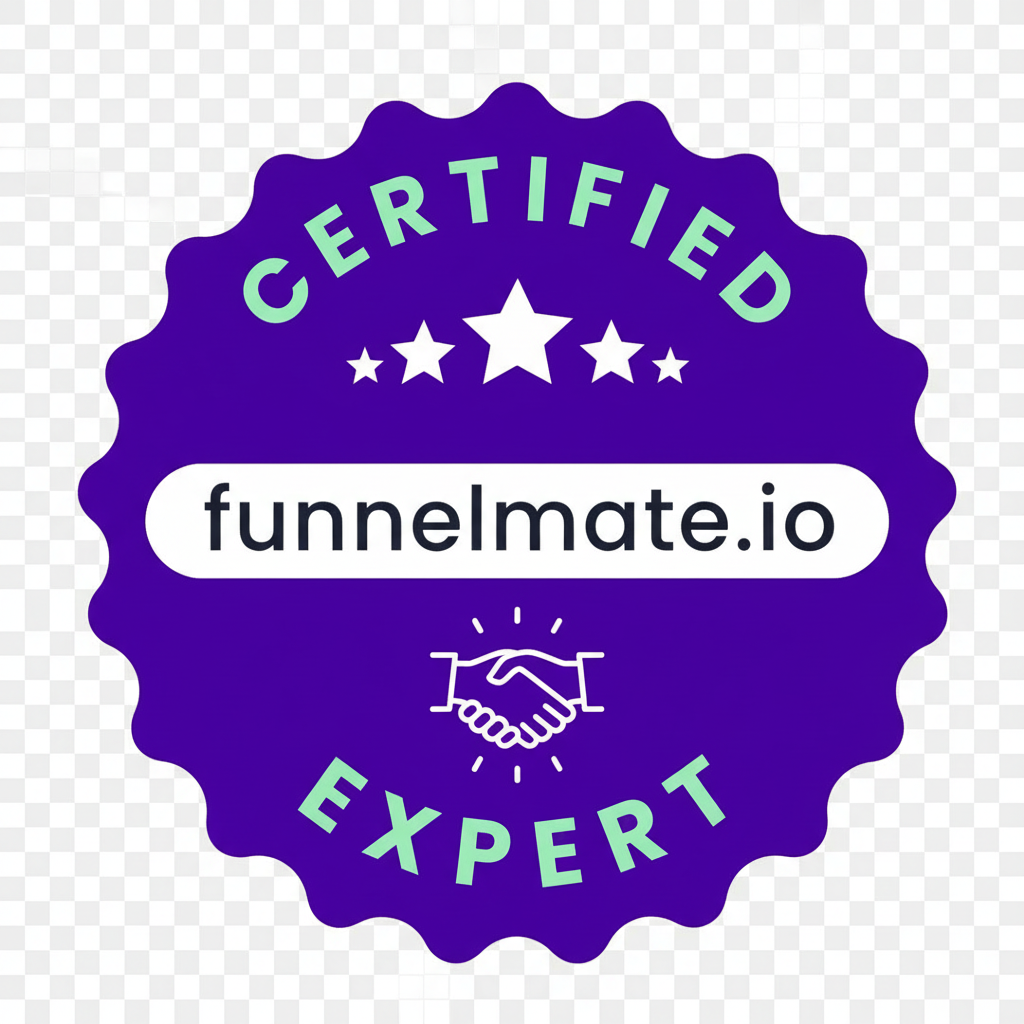
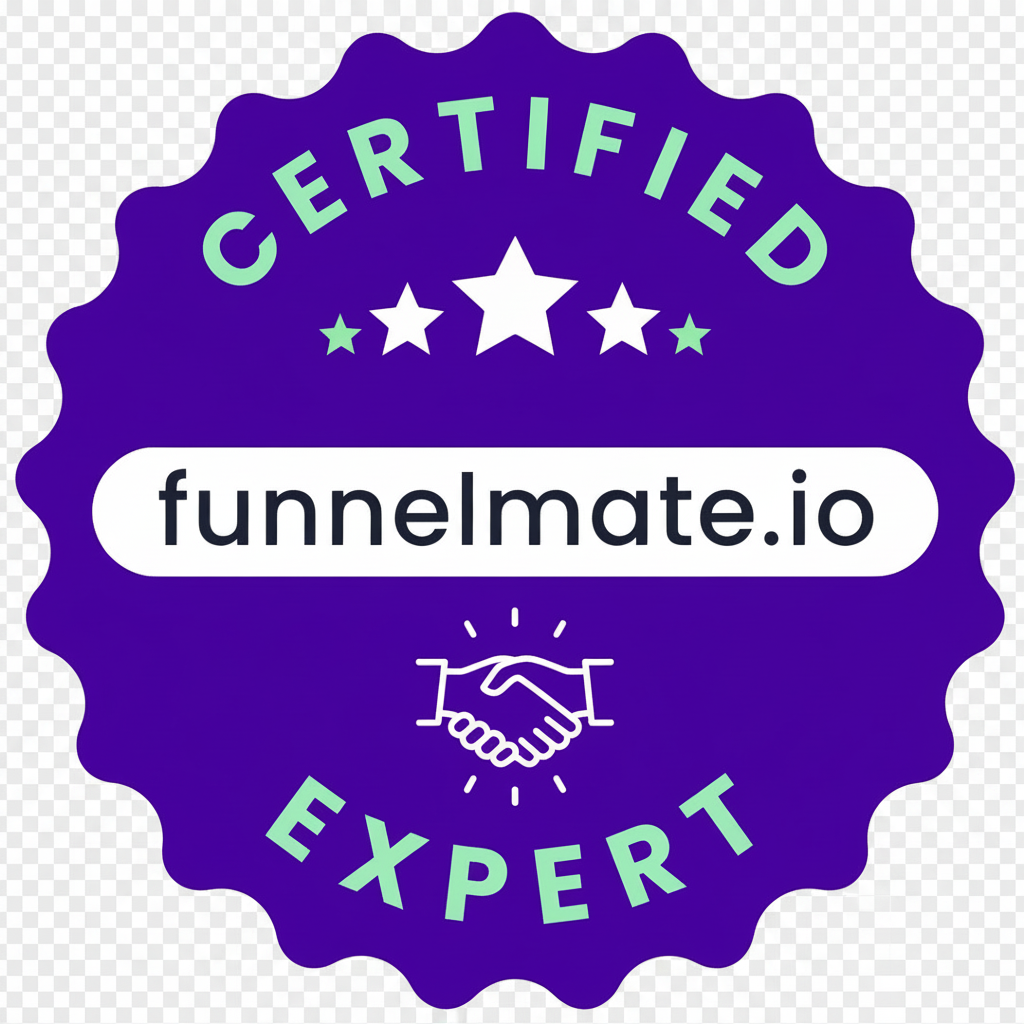
Changes

Changed region(s): [[0.0, 0.0, 1.0, 1.0]]

diff --git a/src/components/TrustLogos.tsx b/src/components/TrustLogos.tsx
@@ -3,7 +3,7 @@ import { useInView } from "framer-motion";
 import { useRef } from "react";
 import gohighlevelLogo from "@/assets/gohighlevel-logo.jpg";
 import funnelmateLogo from "@/assets/funnelmate-logo.png";
-import funnelmateExperte from "@/assets/funnelmate-experte.png";
+import funnelmateCertifiedExpert from "@/assets/funnelmate-certified-expert.png";
 import patrickMentlerLogo from "@/assets/patrick-mentler-logo.png";
 import octaLogo from "@/assets/octa-logo.png";
 import cssIcon from "@/assets/css-icon.png";
@@ -21,8 +21,8 @@ const partners = [
     url: "https://funnelmate.io/?am_id=gaetano",
   },
   {
-    name: "Funnelmate Experte",
-    logo: funnelmateExperte,
+    name: "Funnelmate Certified Expert",
+    logo: funnelmateCertifiedExpert,
     url: "https://funnelmate.io/?am_id=gaetano",
   },
   {
@@ -96,7 +96,7 @@ const TrustLogos = () => {
           >
             {duplicatedPartners.map((partner, index) => {
               // Larger sizes for specific logos
-              const isLargeLogo = partner.name === "OCTA Steuerberater" || partner.name === "Funnelmate Experte";
+              const isLargeLogo = partner.name === "OCTA Steuerberater" || partner.name === "Funnelmate Certified Expert";
               return (
                 <a
                   key={`${partner.name}-${index}`}
